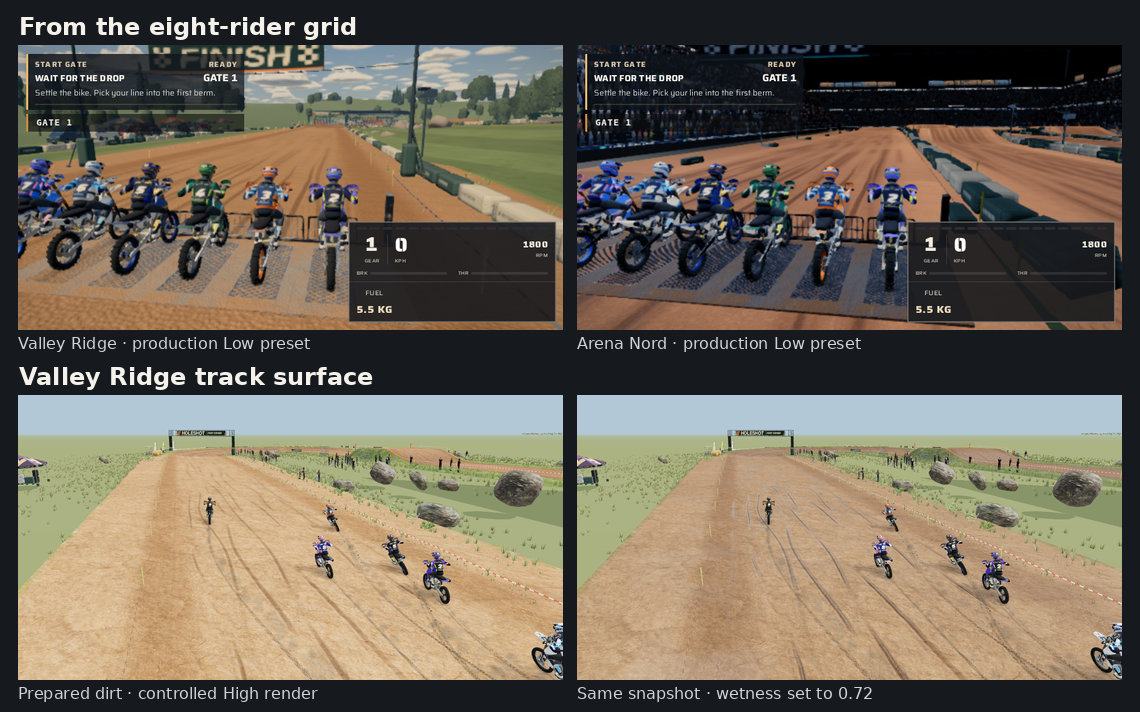
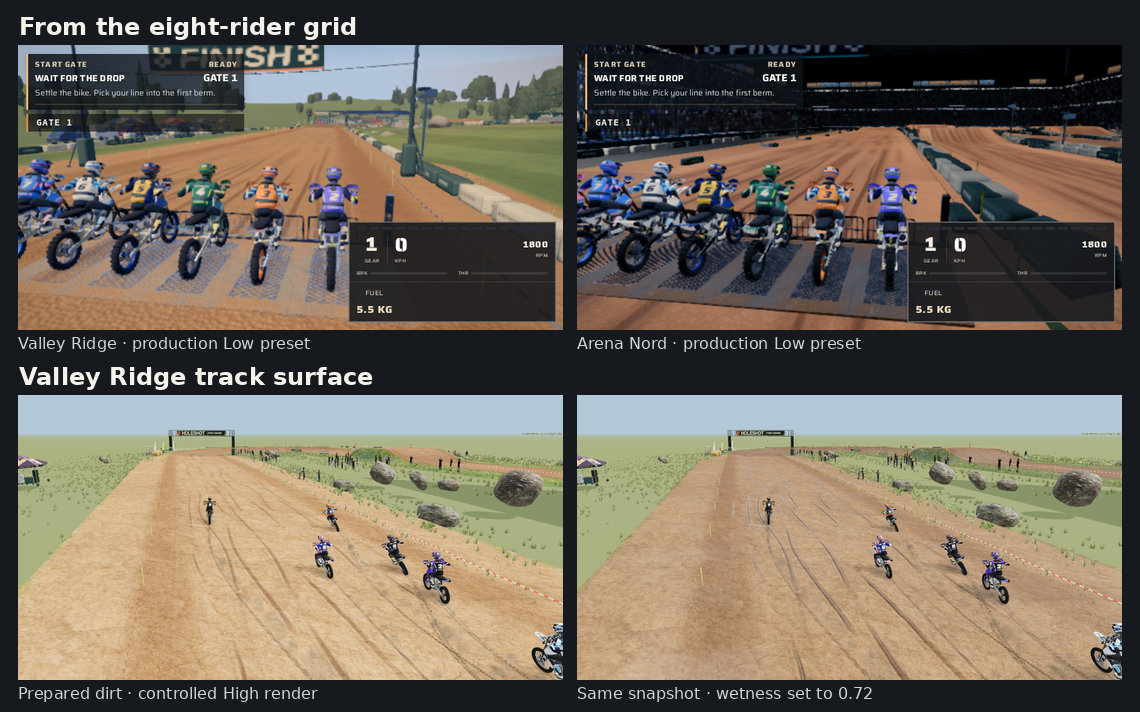
Publish matched race jerseys, outdoor and stadium lighting, riding footage and final motocross measurements

diff --git a/docs/production/motocross-racecraft-20261123/README.md b/docs/production/motocross-racecraft-20261123/README.md
@@ -6,9 +6,19 @@ The outdoor motocross and indoor supercross modes use the same dirt that the pla
 
 The front and rear brake carriers have open arms, staggered cooling slots and a visibly swept pad track. Both rear suspensions have a working rocker and pull rods. The hydraulic hose flexes with the swingarm. The two-stroke MX250 also emits a short exhaust trail from the silencer. A fitted lens reveals the MX450 rider's eyes, the knee guard follows the bend of the leg, and the rider loads the outside peg through a supported turn.
 
+![Four MX450 riders in the same gate pose before and after the jersey and protective belt refit](race-jerseys.jpg)
+
+Each pair uses the same Mid-detail model, camera and starting pose. The violet, orange, yellow and white jerseys carry contrasting numbers between the neck brace and the shaped kidney belt. The band wraps around the lower back and fastens at the front quarter. On the former kit, the belt hid eight of 88 sampled points on number 2 and four of 89 on number 3. Five WebGL captures of the refit covered all three detail levels. All 291 sampled points on the printed numbers were visible.
+
 ![Eight-rider gates in both venues, with a controlled comparison of prepared and wet Valley Ridge soil](venues-and-surface.jpg)
 
 Valley Ridge gained continuous berm banners, worn crew areas and service tracks in the pasture. Arena Nord's LED displays keep their brightness across small camera movements. The seating, trackside fixtures and replay camera sites share a boundary measured from the full rideable run-off. At the previously intersecting rider position, the inner stadium wall is now 6.41 m away. The nearest chair vertex is 6.77 m away across all 18,408 installed seats.
+
+![Matched Valley Ridge gate skies and Arena Nord roof lighting](venue-lighting.jpg)
+
+At Valley Ridge the clear race uses a photographed noon sky. Clouds build through a rural panorama as the weather changes, and rain brings in a lower deck. The same sky lights bike reflections. The Low preset decodes a 1024 × 512 sky, Medium uses 2048 × 1024, and High and Ultra use 4096 × 2048. The venue keeps its own wooded skyline. References 035 and 042 guided the outdoor daylight, and references 010 and 038 guided the indoor contrast.
+
+In Arena Nord the floodlit clay reflects warm light onto the underside of the ribbed steel deck. Cooler spill falls on the steel immediately above each lamp bank. In the matched structural view, the median Rec. 709 luma of the upper 60% of the image rose from 0 to 46 on an eight-bit scale. Both views submitted seven draw calls and 71,344 triangles.
 
 ## Recorded riding motion
 
@@ -20,12 +30,16 @@ The side view replays three seconds of a Valley Ridge MX250 run, sampled at 20 H
 
 | Check | Observation |
 | --- | --- |
-| Riding, graphics and adjacent regression suites | 1,000 tests passed across 100 files. |
+| Riding, graphics and adjacent regression suites | 1,008 tests passed across 100 files. |
 | Three-bike jump calibration | All 20 jump runs landed within their acceptance bands. |
 | Off-road event regression | All 11 race scenarios passed, including the wet outdoor moto and enclosed supercross. |
 | Six-lap replay | Three seeds × two weather conditions × two venues, each run twice with eight riders. All 192 rider entries finished. Each pair matched on finish tick, the sampled riding trace and final terrain. |
+| Tick-timed player controls | Both venues ran the same 24 seconds of throttle, steering, body and brake inputs with seven constant worker wake rates from 24 to 240 Hz and one irregular schedule. All 360 sampled snapshots and the final dirt field matched for each venue. |
 | Ridden Sport handling | The actual player contact and flight solver completed two laps of each venue with the course planner supplying ground controls. Both runs met the existing zero-fall and under-one-second stall criteria. |
-| High-detail WebGL inspection | The complete MX250 model contained 139,879 triangles and the MX450 contained 138,239. Both brake close-ups reported zero WebGL errors. Returning to the initial front-wheel angle restored the initial pixel hash. |
+| Normal race entry | The Low preset reached the eight-rider gate at both venues. Ordinary player throttle put the followed bike above 3 m/s, the camera changed on screen, and the race paused. |
+| High-detail WebGL inspection | The complete MX250 model contained 139,983 triangles and the MX450 contained 138,343. Both brake close-ups reported zero WebGL errors. Returning to the initial front-wheel angle restored the initial pixel hash. |
+| Weather and reflections | On Low, Medium and High, the real HDR loader and reflection renderer drew clear, half-blended and rainy skies. Returning to clear restored the exact initial pixels at every preset. |
+| Dirt-grid materials | The eight-rider grid avoids 56 unused road fairing and number-plate textures, with 11 MiB of uncompressed base-level image data. The dirt bikes retain their own printed plates and the tyre, saddle and metal surfaces they draw. |
 | Outdoor wet-ground replay | Both riding and venue cameras restored the exact dry image after rewind. Holding the wet state produced the same wet image twice. The 1280 × 800 renders kept stable geometry, texture and shader-program counts. |
 
 During 120 racing seconds per venue on a shared Intel Xeon Platinum 8573C, 95% of physics steps took at most 1.50 ms outdoors and 1.43 ms indoors. This CPU measurement covers the eight-rider simulation. The browser's render loop and display latency need separate measurements. [Timing samples](physics-step-timing.json)
